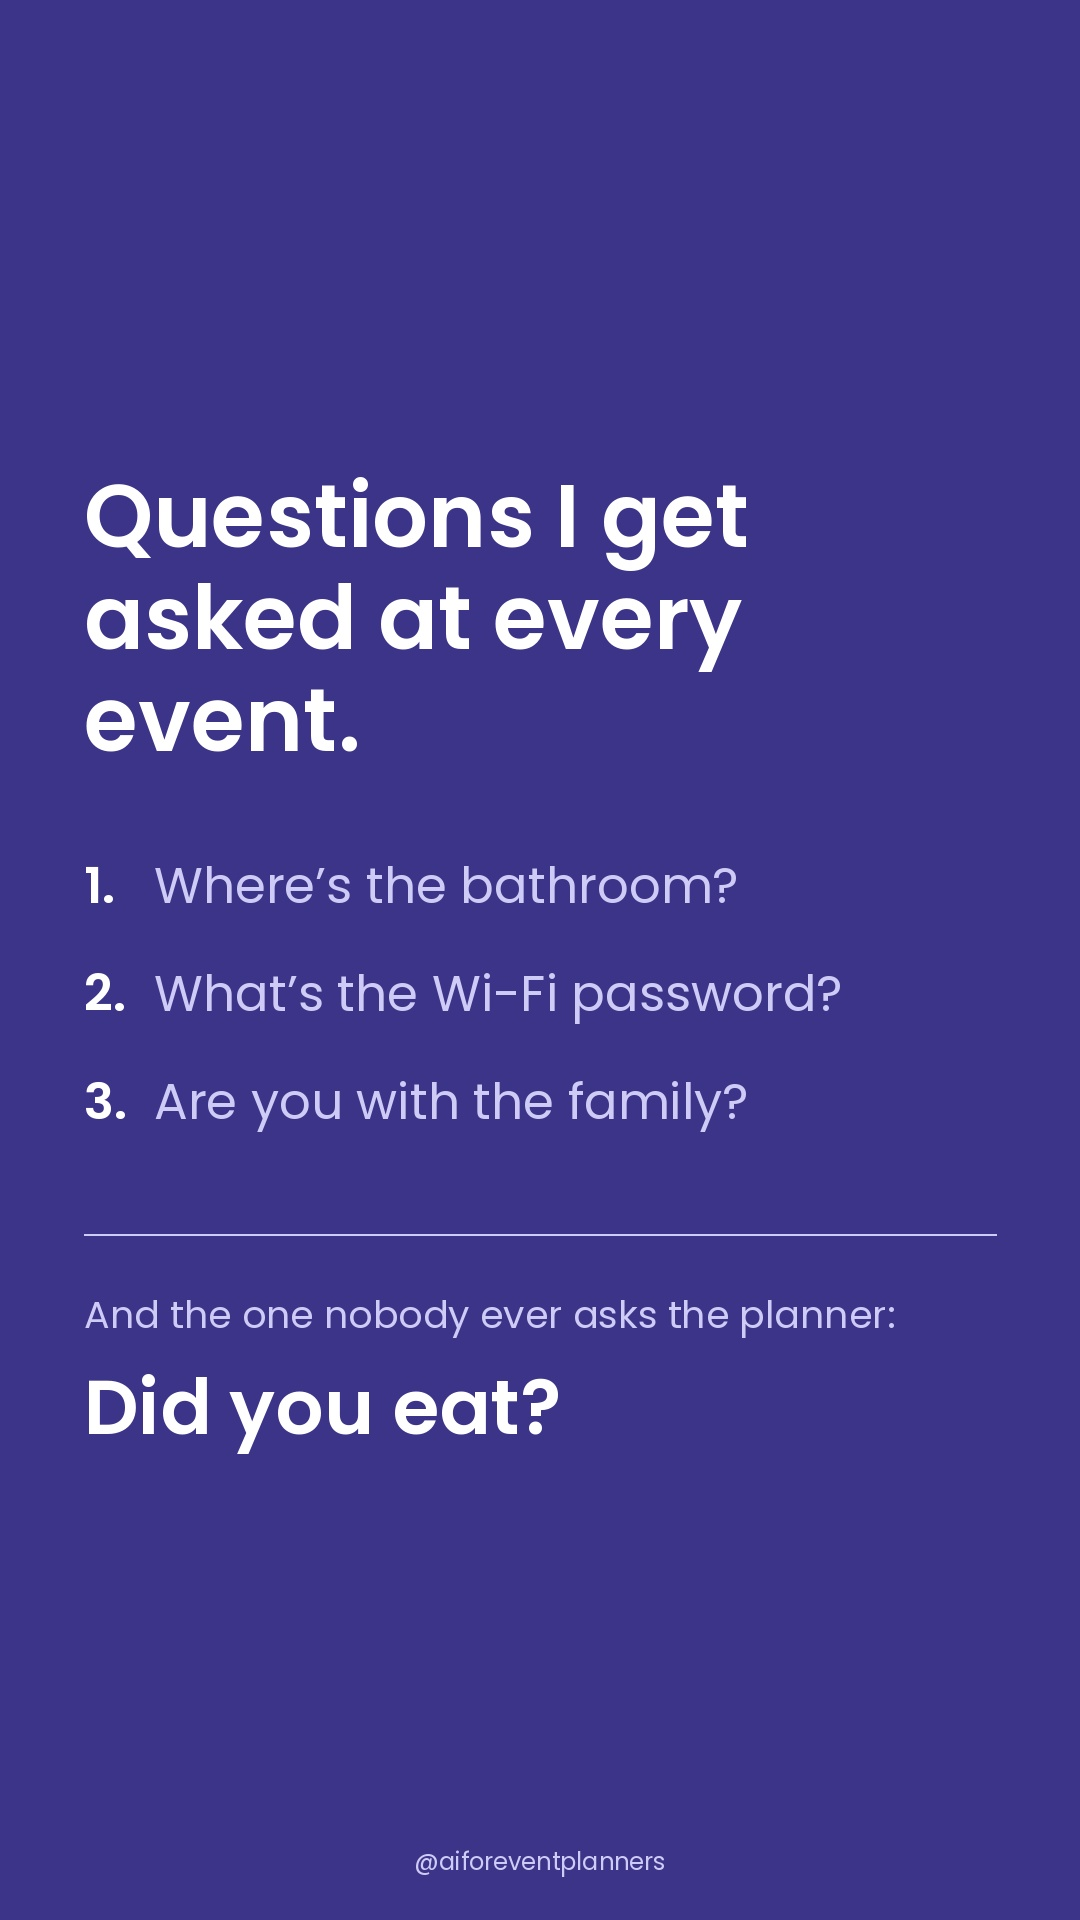
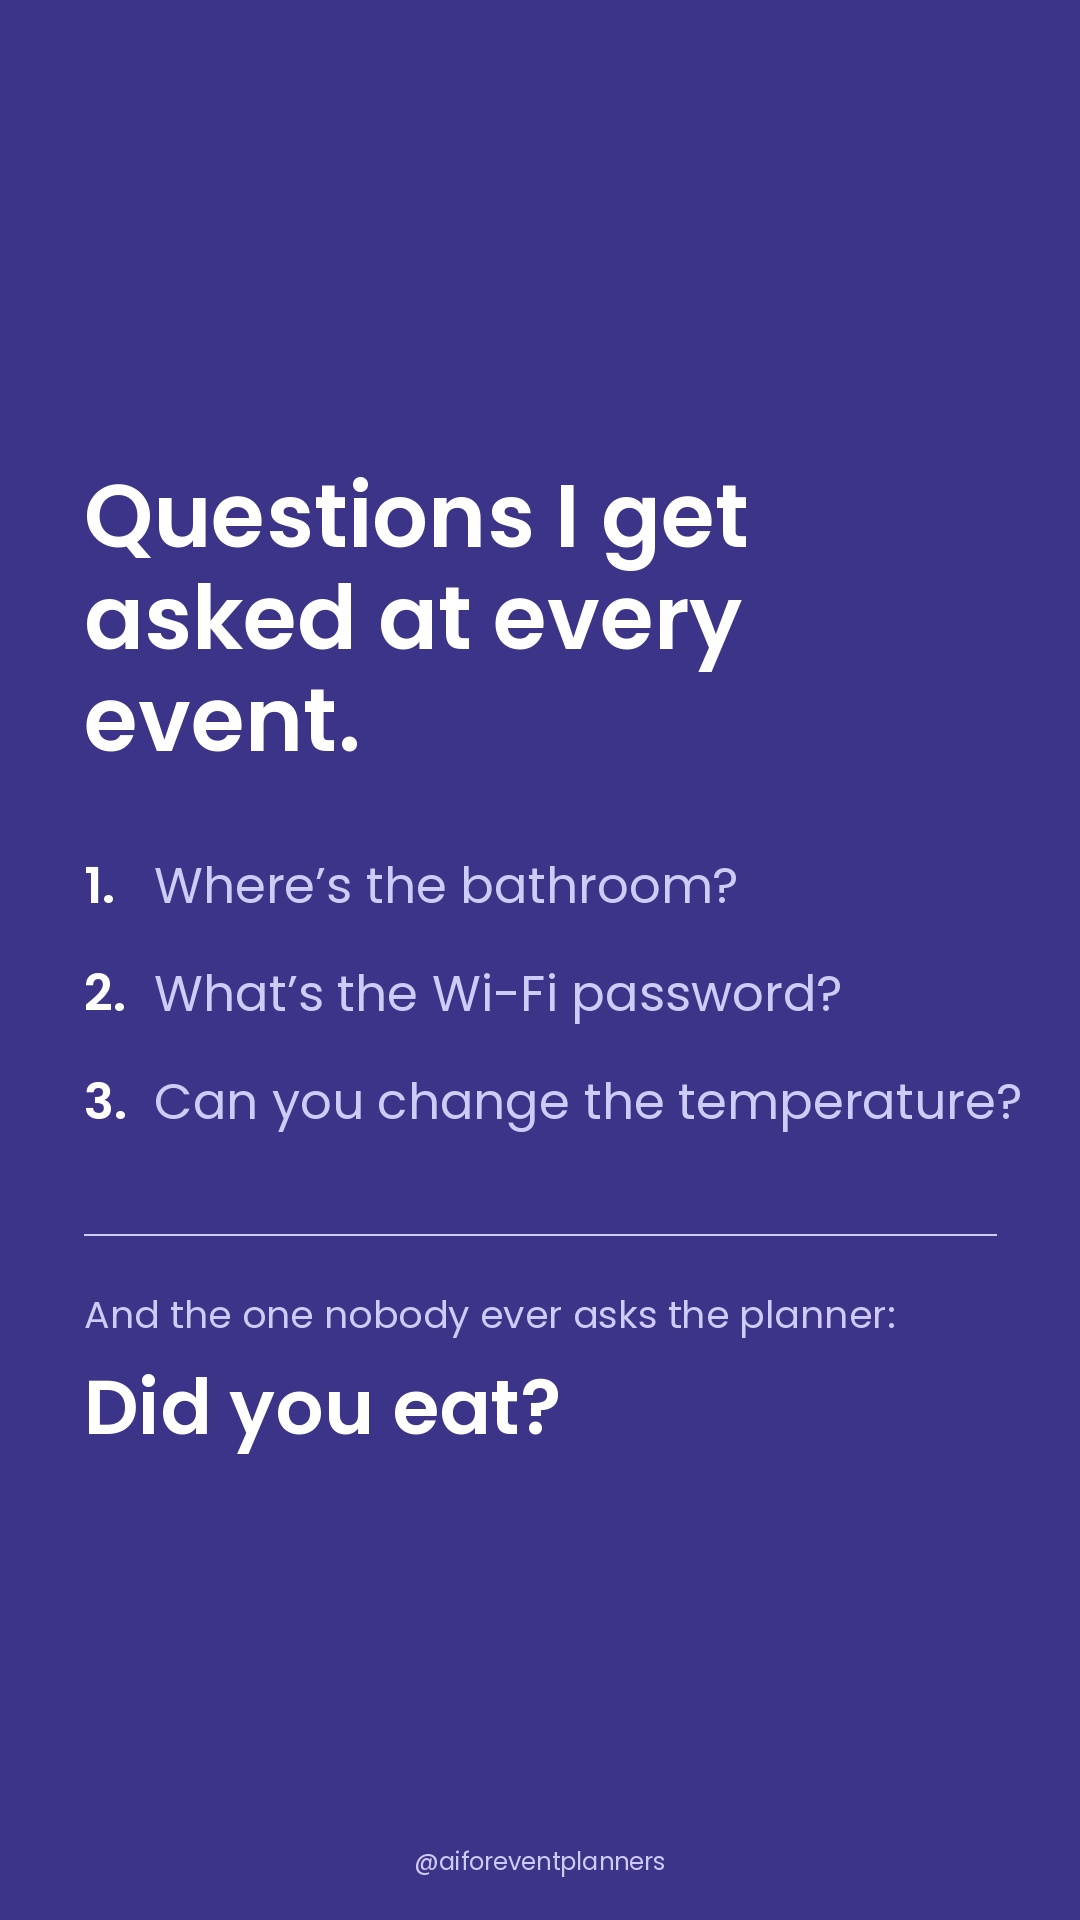
Saturday's question 3 is hers
"Can you change the temperature" (Nov 19), replacing the content bank's "Are
you with the family?". The only edit to her words is the question mark, so the
list sets consistently; questions 1 and 2 stay the bank's until she replaces
them, and each is commented with where it came from.

The Reel version and the Drive copies are deliberately not rebuilt yet: she is
sending the list one question at a time, and the piece is not due until Fri 20.

Claude-Session: https://claude.ai/code/session_01HKX4LcxS3og4W8QFWqNVPj

Changed region(s): [[0.1222, 0.5625, 0.9472, 0.5938]]

diff --git a/posts/2026-11-21-questions/make_post.py b/posts/2026-11-21-questions/make_post.py
@@ -36,11 +36,13 @@ HANDLE = "@aiforeventplanners"
 
 TITLE = "Questions I get\nasked at every\nevent."
 
-# From the content bank, until she sends her own list.
+# Hers as they come in, Nov 19, one at a time; the rest are the content
+# bank's until she replaces them. The only edit to her words is the question
+# mark, so the list sets consistently.
 QUESTIONS = [
-    "Where’s the bathroom?",
-    "What’s the Wi-Fi password?",
-    "Are you with the family?",
+    "Where’s the bathroom?",            # content bank
+    "What’s the Wi-Fi password?",        # content bank
+    "Can you change the temperature?",  # hers, Nov 19
 ]
 LAST_INTRO = "And the one nobody ever asks the planner:"
 LAST = "Did you eat?"
